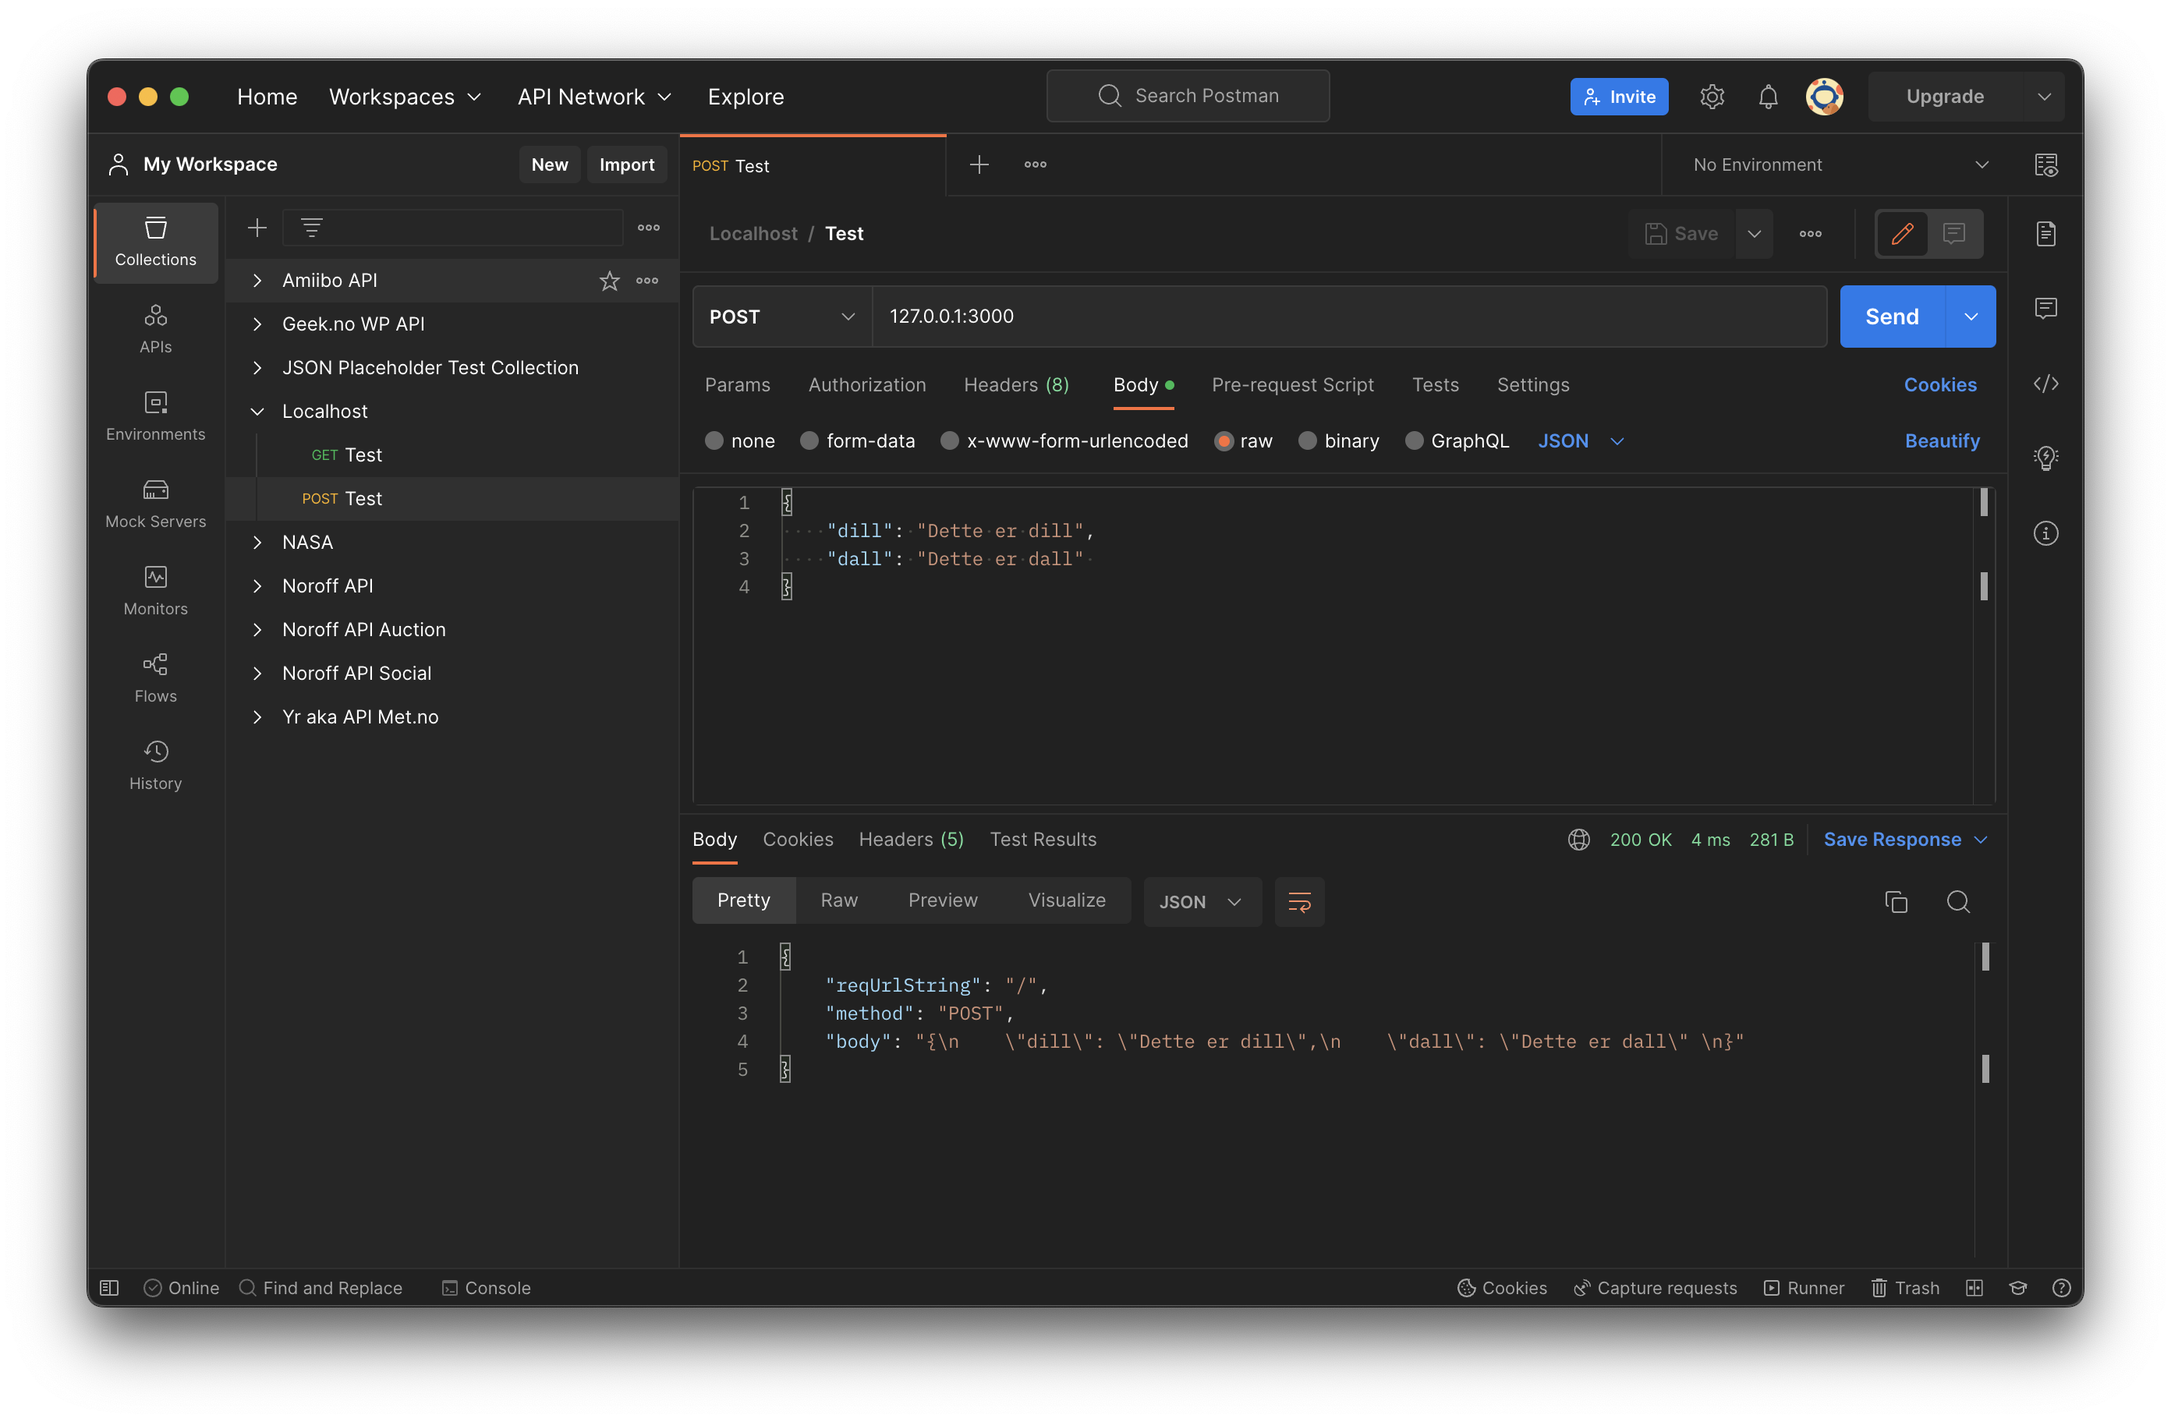
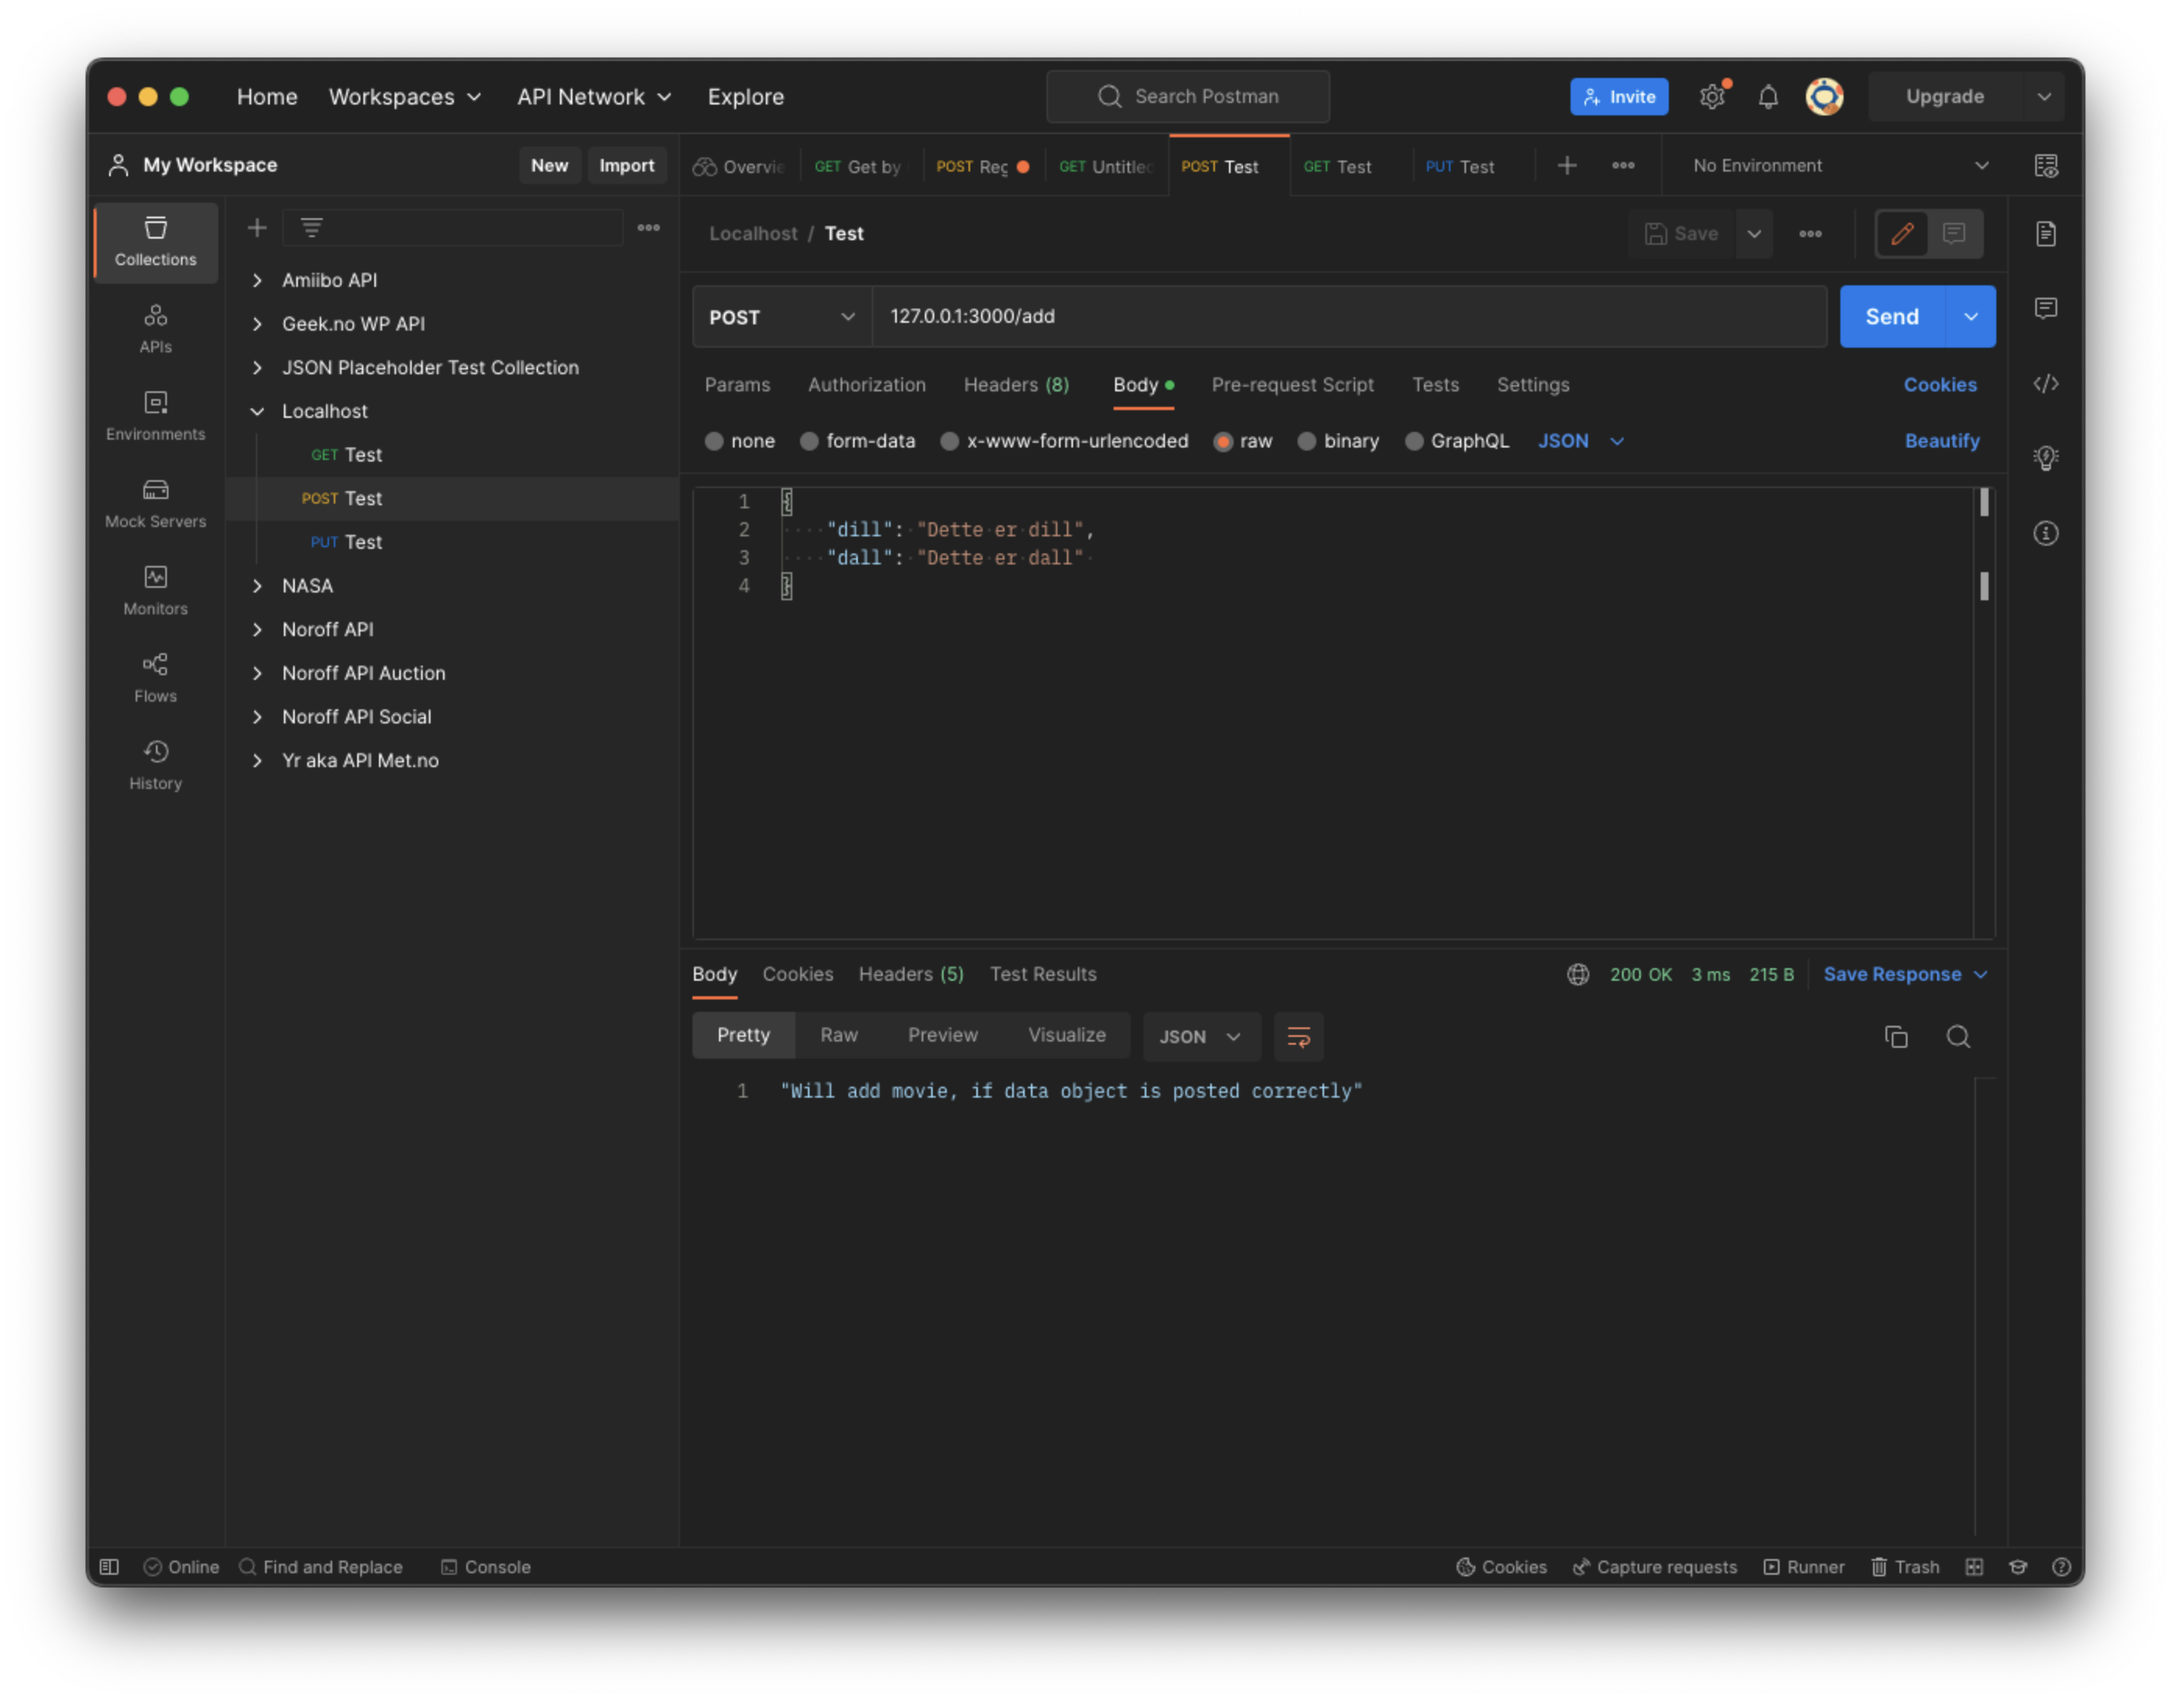
testing

diff --git a/app.js b/app.js
@@ -17,12 +17,14 @@ let sendData = (res, body) => {
 
 const server = http.createServer((req, res) => {
     let reqUrlString = req.url;
+    let path = url.parse(reqUrlString, true).pathname;
+    //console.log({reqUrlString, path});
 
-    if (reqUrlString === "/") {
+    if (path === "/") {
         sendData (res, "Use endpoints GET /list or POST /add");
-    } else if (reqUrlString === "/list") {
+    } else if (path === "/list") {
         sendData (res, "Will list all movies");
-    } else if (reqUrlString === "/add") {
+    } else if (path === "/add") {
         let method = req.method;
         if (method === "POST" || method === "PUT") {
             sendData (res, "Will add movie, if data object is posted correctly");
@@ -30,7 +32,7 @@ const server = http.createServer((req, res) => {
             sendData (res, "You need to use POST (or PUT) here..."); 
         }
     } else {
-        sendData (res, { 404: reqUrlString});
+        sendData (res, { 404: path});
     }
 });
 

diff --git a/README.md b/README.md
@@ -7,8 +7,7 @@ Example-project for making a very basic NodeJS + MongoDB app.
 1. Install mongodb: `npm i mongodb --save-dev`
 1. Add start-script to package.json: `"start": "node app.js"` (for later use)
 1. Sign up for [MongoDB Atlas](https://www.mongodb.com/atlas) with GitHub (or your preferred method), and make a cluster and (at least one DB user)
-1. Add starter code to a test file `listMovies.js`:
-    * Replace `<username>`, `<password>`, and `<cluster.hash>` with your own, you'll find the `uri` (sans Password) on Atlas under `Database Deployments` > `<Your Cluster>` > `Connect` > `Connect your application`:
+1. Before we get started, let's try out the database-connection. Add this starter code to a test file `listMovies.js`:
     ```js
     const { MongoClient, ServerApiVersion } = require('mongodb');
 
@@ -31,6 +30,9 @@ Example-project for making a very basic NodeJS + MongoDB app.
 
     run().catch(console.dir);
     ```
+    > Replace `<username>`, `<password>`, and `<cluster.hash>` with your own, you'll find the `uri` (sans Password) on Atlas under `Database Deployments` > `<Your Cluster>` > `Connect` > `Connect your application`
+    >
+    > **NOTE**: Make a non-admin database user (that can be discarded), for this project, or protect your login-URI.
 1. Run the code, using `node listMovies.js`
     * Make sure you get `Connected correctly to server` on the console
 1. Add database details: 
@@ -58,7 +60,8 @@ Example-project for making a very basic NodeJS + MongoDB app.
         const result = await col.updateOne(filter, movie, options);
         console.log(`${result.matchedCount} document(s) matched the filter`);
     ```
-1. Re-run, and check Atlas to see the new (?) Database `node_testing` with a new (?) collection `movies` that contains (at least) one movie.
+1. Re-run, and check Atlas to see the new (?) Database `node_testing` with a new (?) collection `movies` that contains (at least) one movie: "True Romance"
+---
 1. Now, we'll make a new file `app.js` some JSON output.
 1. Add requirements, and local variables: 
     ```js
@@ -81,12 +84,14 @@ Example-project for making a very basic NodeJS + MongoDB app.
     ```js
     const server = http.createServer((req, res) => {
         let reqUrlString = req.url;
+        let path = url.parse(reqUrlString, true).pathname;
+        //console.log({reqUrlString, path});
 
-        if (reqUrlString === "/") {
+        if (path === "/") {
             sendData (res, "Use endpoints GET /list or POST /add");
-        } else if (reqUrlString === "/list") {
+        } else if (path === "/list") {
             sendData (res, "Will list all movies");
-        } else if (reqUrlString === "/add") {
+        } else if (path === "/add") {
             let method = req.method;
             if (method === "POST" || method === "PUT") {
                 sendData (res, "Will add movie, if data object is posted correctly");
@@ -94,12 +99,11 @@ Example-project for making a very basic NodeJS + MongoDB app.
                 sendData (res, "You need to use POST (or PUT) here..."); 
             }
         } else {
-            sendData (res, { 404: "Not found"});
+            sendData (res, { 404: path});
         }
     });
     ```
-
----
-
-Tip: You can use [Postman](https://www.postman.com/product/what-is-postman/) to send post requests to localhost: 
-![](./resources/postman-localhost.png)
+1. Now run the app with `npm start`, and test with a few GET and POST requests.
+    > Tip: You can use [Postman](https://www.postman.com/product/what-is-postman/) to send post requests to localhost: 
+    ![](./resources/postman-localhost.png)
+1. 
